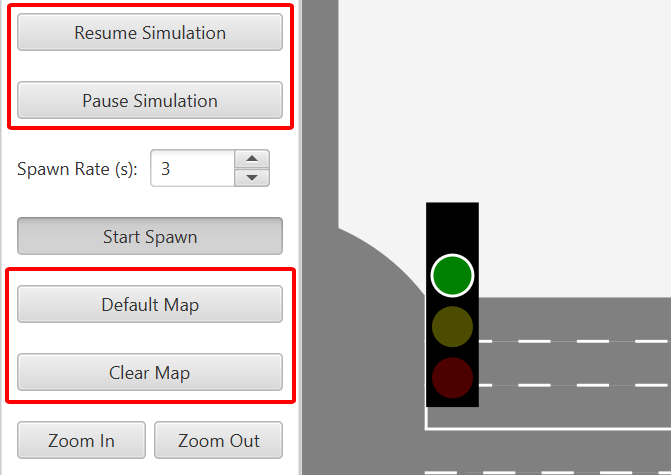
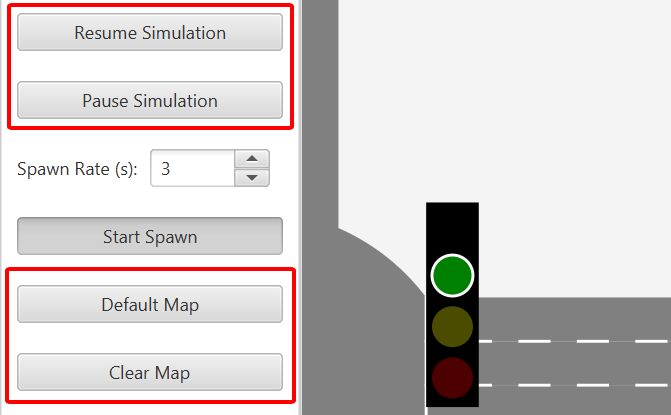
Add new report

diff --git a/Report_Presentation/Chapter/3_System_Architecture.tex b/Report_Presentation/Chapter/3_System_Architecture.tex
@@ -155,6 +155,12 @@ Users can toggle between Automatic and Manual light control modes on the side pa
 
 \subsection{Dynamic Spawner Controls and Density Management}
 To facilitate stress testing and congestion analysis under varying load levels, the user interface incorporates a dynamic spawning control toggle (\texttt{stopSpawnButton}). At any point during the simulation, users can instantly freeze or resume the background vehicle generation engine. This toggle allows researchers to clear existing traffic bottlenecks, pause the induction of new vehicles to evaluate clearance times, or generate high-density traffic jams on the fly to observe emergent self-organized bottleneck routing behaviors.
+\begin{figure}[H]
+  \centering
+  \includegraphics[width=0.6\textwidth]{Figures/stop_spawn.png}
+  \caption{Spawner Controls to Toggle Vehicle Generation On/Off During Simulation}
+  \label{fig:stop_spawn}
+\end{figure}
 
 \subsection{Interactive Viewport and Scaling Controls}
 To support the visualization of extremely large traffic networks without losing the ability to inspect localized vehicle queues and microscopic collision boxes, the system incorporates comprehensive viewport navigation features:
@@ -182,7 +188,7 @@ To grant complete control over the simulation timeline and layout state, a suite
 \begin{figure}[H]
   \centering
   \includegraphics[width=0.6\textwidth]{Figures/simulation_management_controls.png}
-  \caption{Simulation Timeline Controls (Play/Pause) and Map State Operations}
+  \caption{Simulation Timeline Controls (Resume/Pause) and Map State Operations}
   \label{fig:simulation_management_controls}
 \end{figure}
 
